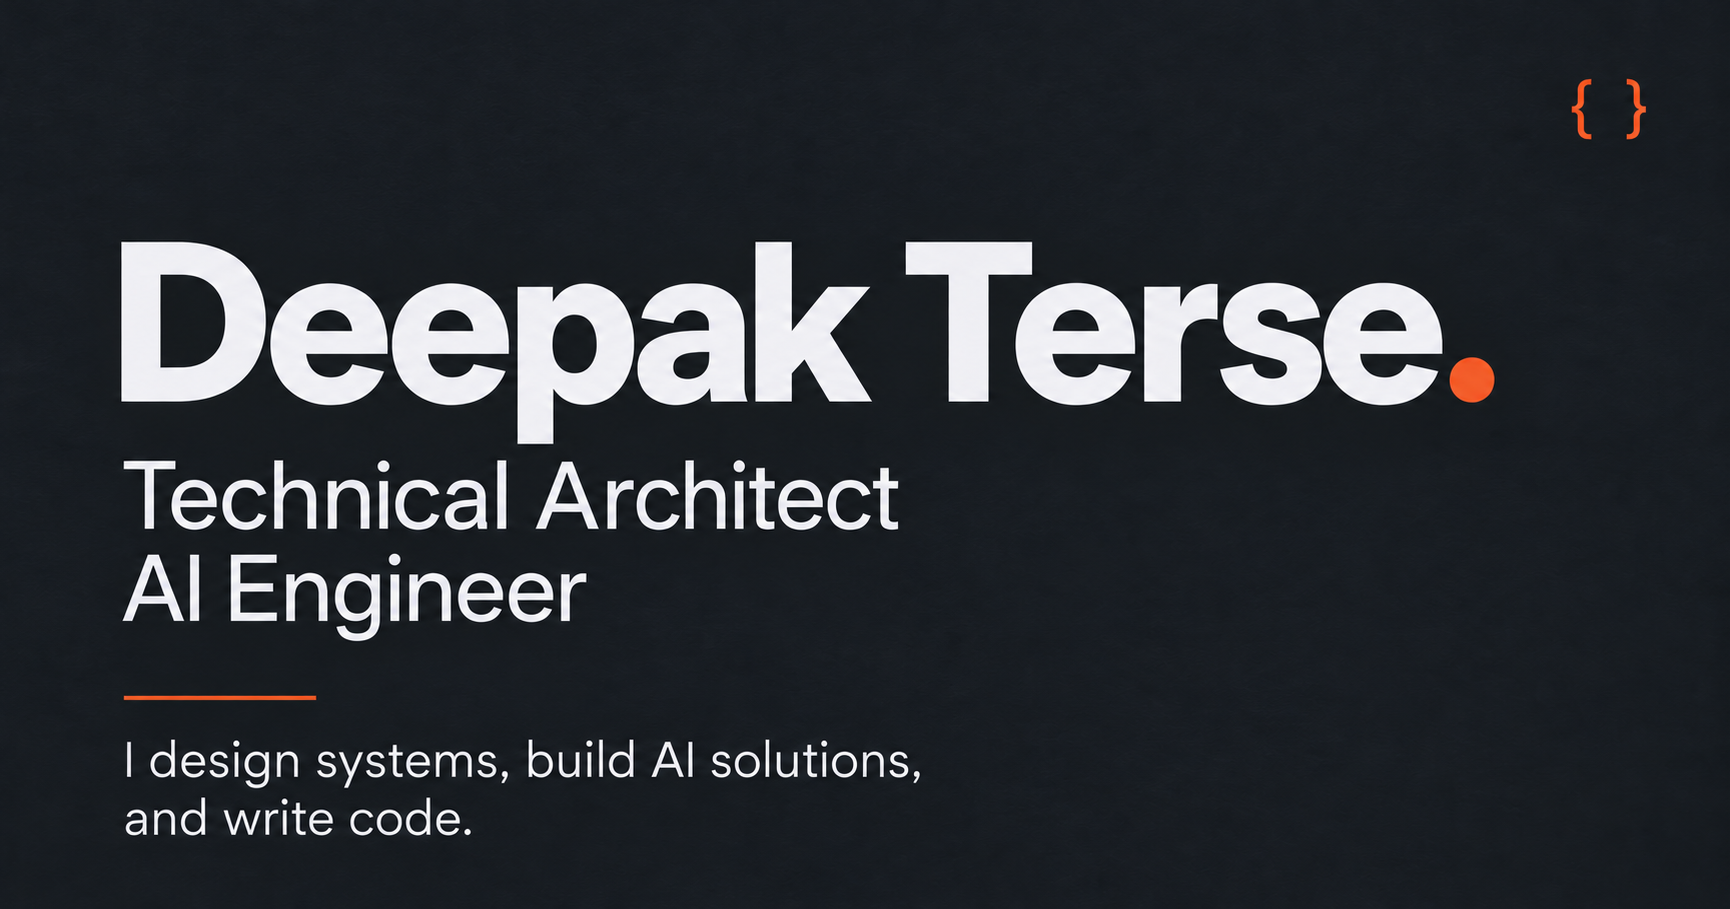
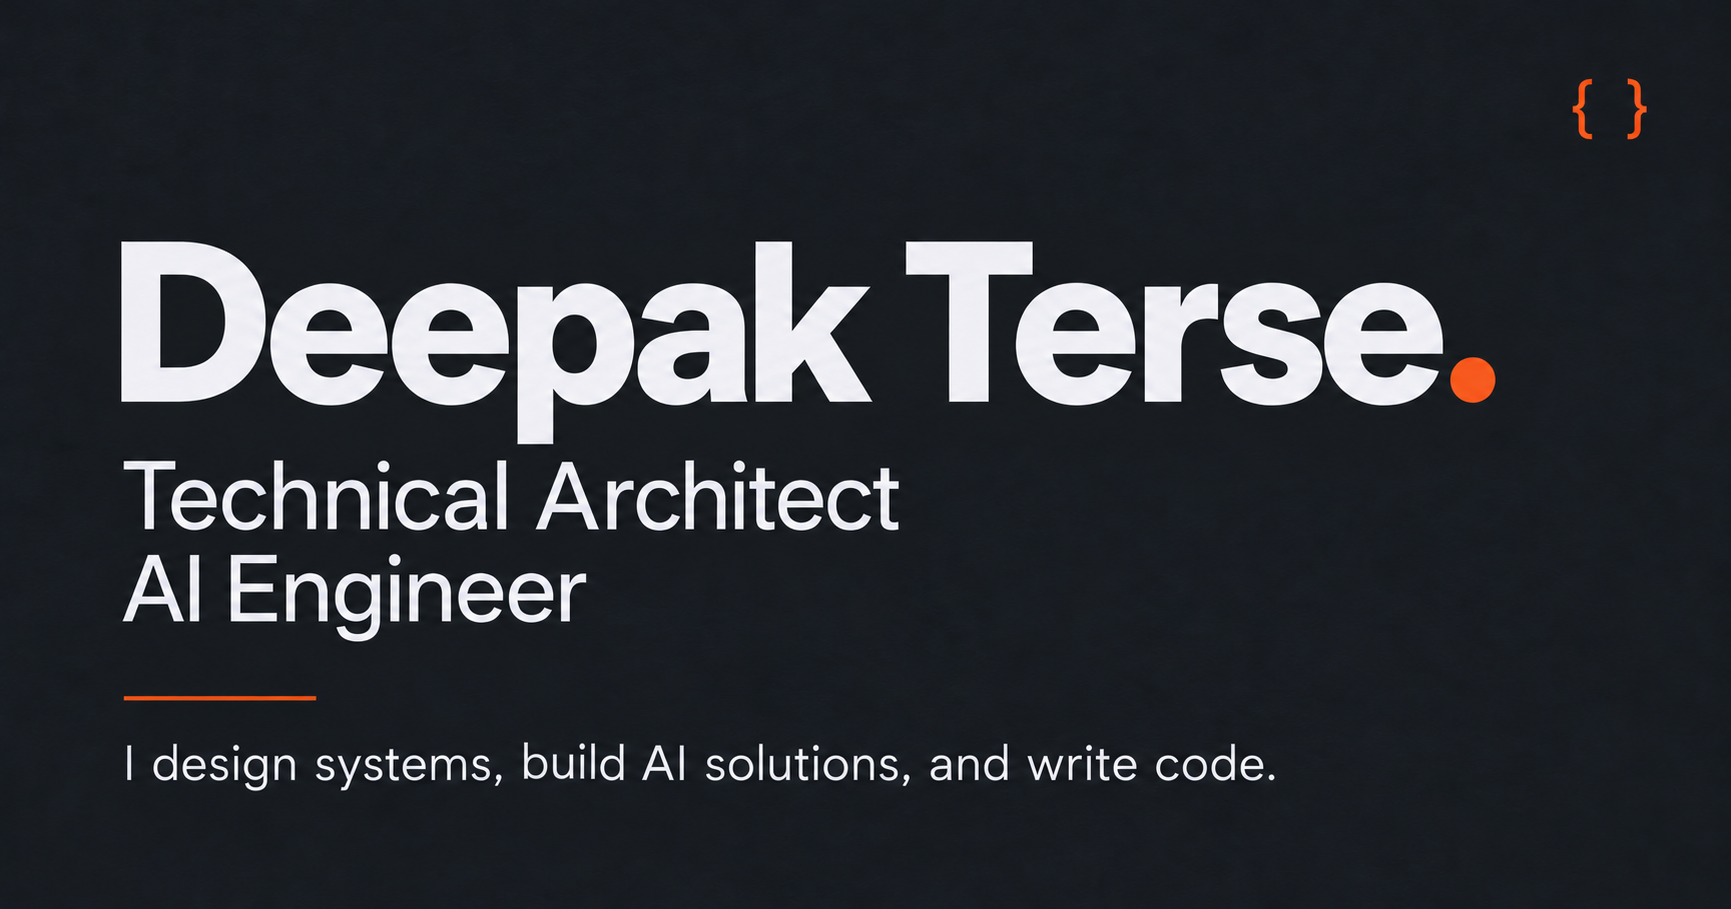
feat: add .gitignore, update README with maintenance notes, and replace OG image

diff --git a/README.md b/README.md
@@ -1,13 +1,22 @@
 # Deepak Terse — Portfolio
 
-[Visit the portfolio](https://deepak-terse.github.io/)
-
-Built with semantic HTML, CSS, and vanilla JavaScript. No framework, dependencies, or build step.
+A personal portfolio built with semantic HTML, CSS, and vanilla JavaScript. No framework, dependencies, or build step.
 
 The simplicity is intentional. The portfolio is structured more like a story than a traditional resume, so the implementation stays close to the problem: easy to understand, fast to load, and straightforward to change.
+
+[Live portfolio](https://deepak-terse.github.io/)
+
 
 ## Design principle
 
 Choose the simplest architecture that comfortably solves the problem.
+
+## Maintenance Notes
+
+- **Analytics:** [Umami dashboard](https://cloud.umami.is/analytics/eu/websites/920e3d0e-b15a-49dd-9792-37248655b891?date=7day&page=1) - Sign-in using Google SSO
+- **Resume:** Keep `assets/documents/deepak-terse-resume.pdf` up to date; it is linked from the portfolio.
+- **Yearly:** Update the hard-coded copyright year in the footer of `index.html`.
+- **Domain changes:** Keep the canonical/social URLs in `index.html` and URLs in `sitemap.xml` and `robots.txt` in sync.
+
 
 Released under the [MIT License](LICENSE).
